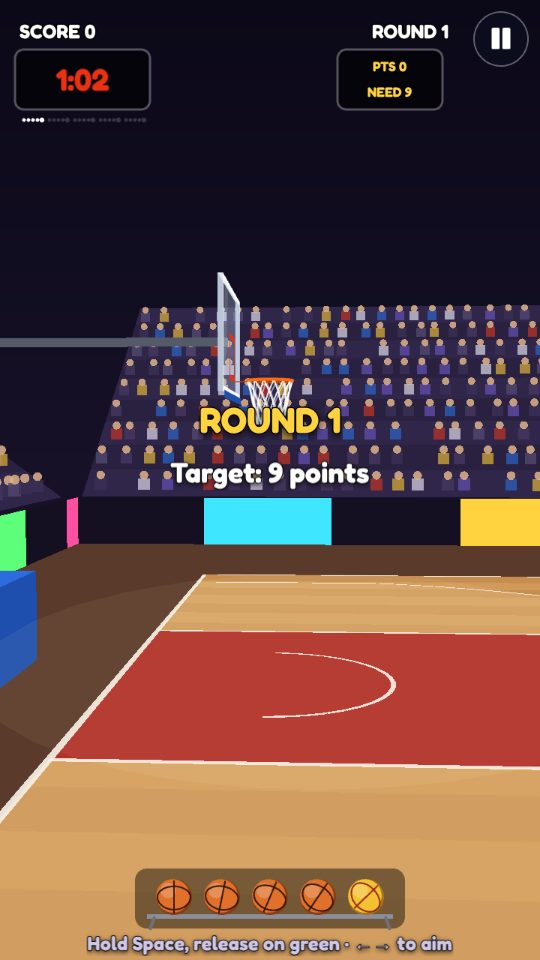
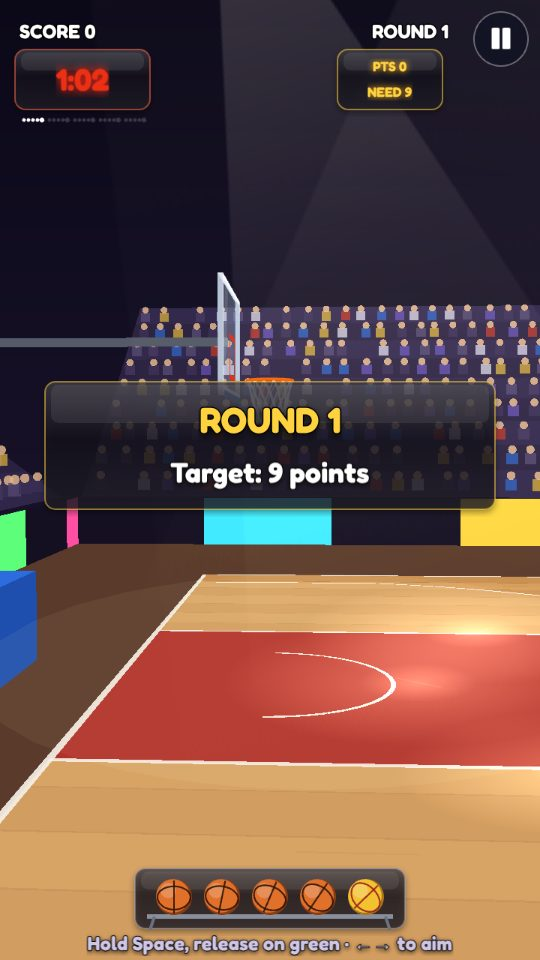
Hoop Shot: arena lights, glossy ball, hot streak fire, glass scoreboard
- light beams from the roof with their lamps, and pools of light on the
  varnished floor, lined up with the camera whenever it moves
- plank seams and grain in the court
- camera flashes popping in the stands, a burst of them on every make
  (more on a swish, most on a money ball)
- a shaded ball (highlight and dark rim) with a fading trail in the air
- three makes in a row: ON FIRE!, a flaming ring on the ball in hand
  and flames trailing the shot
- a glow over the rim on a make
- glass panels with glowing LED digits for the clock and the points,
  a glass rack panel, and a glass card behind round banners
- version 1.2.0

Claude-Session: https://claude.ai/code/session_0175vXZr811A8hQZq6oHnsLr

diff --git a/games/hoop-shot/PlayScene.ts b/games/hoop-shot/PlayScene.ts
@@ -4,6 +4,13 @@ import {
   type V3, type Ball, v3, add, mul, norm, len, dot, launch, stepBall, preview, SPOTS, BALL_R, RIM_Y, RIM_R,
 } from './sim';
 import { Cam, Arena, camFor, camBetween, drawHoop, drawBall, drawShadow, type NetState, type BallLook } from './view';
+import { makeHoopTextures, glass } from './fx';
+
+/** Arena lights hanging over the court (world), and where each one points. */
+const LIGHTS: [V3, V3][] = [
+  [v3(-7, 12, -1), v3(-2.5, 0, 2.5)], [v3(7, 12, -1), v3(2.5, 0, 2.5)],
+  [v3(-7, 12, 9), v3(-3, 0, 6.5)], [v3(7, 12, 9), v3(3, 0, 6.5)], [v3(0, 12.5, 4), v3(0, 0, 1.5)],
+];
 
 const RACK = 5;
 const IDEAL = 0.7;             // the meter value of a perfect shot
@@ -18,6 +25,9 @@ type Phase = 'intro' | 'shoot' | 'move' | 'wait' | 'between';
 interface Flying {
   b: Ball;
   g: Phaser.GameObjects.Graphics;
+  shade: Phaser.GameObjects.Image;
+  trail: { x: number; y: number; r: number }[];
+  fire: boolean;
   look: BallLook;
   spot: number;
   idx: number;
@@ -58,6 +68,7 @@ export class PlayScene extends ArcadeScene {
   private spotText!: Phaser.GameObjects.Text;
   private banner!: Phaser.GameObjects.Text;
   private sub!: Phaser.GameObjects.Text;
+  private bannerBg!: Phaser.GameObjects.Image;
   private hintText!: Phaser.GameObjects.Text;
   private flying: Flying[] = [];
   private pool: Phaser.GameObjects.Graphics[] = [];
@@ -91,6 +102,13 @@ export class PlayScene extends ArcadeScene {
   private keys!: Record<string, Phaser.Input.Keyboard.Key>;
   private touchUi = false;
   private shotsTaken = 0;
+  private beams: Phaser.GameObjects.Image[] = [];
+  private lamps: Phaser.GameObjects.Image[] = [];
+  private sheens: Phaser.GameObjects.Image[] = [];
+  private heldShade!: Phaser.GameObjects.Image;
+  private fire!: Phaser.GameObjects.Particles.ParticleEmitter;
+  private flashT = 0;
+  private shadePool: Phaser.GameObjects.Image[] = [];
 
   createGame(): void {
     this.flying = []; this.pool = [];
@@ -102,6 +120,8 @@ export class PlayScene extends ArcadeScene {
     this.aim = 0; this.aimStart = 0; this.downX = 0; this.driftPhase = 0; this.driftW = 2.6; this.wasGreen = false; this.shotsTaken = 0;
     this.touchUi = this.sys.game.device.input.touch;
 
+    makeHoopTextures(this);
+    this.beams = []; this.lamps = []; this.sheens = []; this.shadePool = []; this.flashT = 0;
     this.arena = new Arena();
     // the arena is baked into a texture and only redrawn when the camera moves
     this.bg = this.make.graphics({}, false);
@@ -111,16 +131,33 @@ export class PlayScene extends ArcadeScene {
     this.gBoard = this.add.graphics();
     this.gBack = this.add.graphics();
     this.gFront = this.add.graphics();
+    // arena lights: beams from the roof, the lamps themselves and their reflections in the varnish
+    for (let i = 0; i < LIGHTS.length; i++) {
+      this.beams.push(this.add.image(0, 0, 'hs-beam').setOrigin(0.5, 0).setBlendMode(Phaser.BlendModes.ADD).setAlpha(0.2).setDepth(2));
+      this.lamps.push(this.add.image(0, 0, 'hs-glow').setBlendMode(Phaser.BlendModes.ADD).setTint(0xfff2cc).setDepth(2));
+      this.sheens.push(this.add.image(0, 0, 'hs-glow').setBlendMode(Phaser.BlendModes.ADD).setTint(0xfff2cc).setAlpha(0.38).setDepth(1.5));
+    }
+    this.fire = this.add.particles(0, 0, 'hs-glow', {
+      speed: { min: 10, max: 60 }, angle: { min: 240, max: 300 }, lifespan: 380, scale: { start: 0.42, end: 0 }, alpha: { start: 0.8, end: 0 },
+      tint: [0xffe27a, 0xff9a2a, 0xff4a1a], blendMode: Phaser.BlendModes.ADD, frequency: 14, emitting: false,
+    }).setDepth(79);
     this.gHeld = this.add.graphics().setDepth(80);
+    this.heldShade = this.add.image(0, 0, 'hs-shade').setDepth(80.5).setVisible(false);
     this.gHint = this.add.graphics().setDepth(78);
     this.gMeter = this.add.graphics().setDepth(90);
     this.gRack = this.add.graphics().setDepth(90);
     this.gBoardHud = this.add.graphics().setDepth(90);
 
-    // scoreboard: shot clock, points against the target
+    // scoreboard: shot clock, points against the target, on glass with LED-style glowing digits
+    this.add.image(110, 106, glass(this, 180, 80, '#ff6a4a')).setDepth(89);
+    this.add.image(520, 106, glass(this, 140, 80, '#ffd23f')).setDepth(89);
+    this.add.image(360, 1198, glass(this, 360, 80, '#9aa3b4')).setDepth(89);
     this.clockText = txt(this, 110, 106, '', { title: true, size: 34, color: '#ec3013', strokeThickness: 0 }).setDepth(92);
+    this.clockText.setShadow(0, 0, '#ff2a1a', 14, false, true);
     this.ptsText = txt(this, 520, 106, '', { title: true, size: 15, color: '#ffd23f', strokeThickness: 0 }).setDepth(92);
+    this.ptsText.setShadow(0, 0, '#ffb020', 10, false, true);
     this.spotText = txt(this, 360, 760, '', { title: true, size: 28, color: '#f3f2f2' }).setDepth(92);
+    this.bannerBg = this.add.image(360, 594, glass(this, 600, 170, '#ffd23f')).setDepth(94).setVisible(false);
     this.banner = txt(this, 360, 560, '', { title: true, size: 40, color: '#ffd23f', wrap: 660 }).setDepth(95).setVisible(false);
     this.sub = txt(this, 360, 630, '', { size: 32, color: '#ffffff', wrap: 660 }).setDepth(95).setVisible(false);
     this.hintText = txt(this, 360, 1258, '', { size: 22, color: '#cfc6e6' }).setDepth(92);
@@ -234,10 +271,13 @@ export class PlayScene extends ArcadeScene {
     const b = launch(from, { power: this.power, ideal: IDEAL, spread: this.rules.spread, aimDeg: this.aim + this.drift(), angleDeg: ANGLE, spin: SPIN }, money);
     const g = this.pool.pop() ?? this.add.graphics();
     g.setVisible(true).setAlpha(1);
-    this.flying.push({ b, g, look: { phase: 0, roll: 0, money }, spot: this.spot, idx: this.ball, resolved: false, fade: 1, label: false });
+    const shade = this.shadePool.pop() ?? this.add.image(0, 0, 'hs-shade');
+    shade.setVisible(true).setAlpha(1);
+    this.flying.push({ b, g, shade, trail: [], fire: this.streak >= 3, look: { phase: 0, roll: 0, money }, spot: this.spot, idx: this.ball, resolved: false, fade: 1, label: false });
     this.shotsTaken++;
     this.holding = false;
     this.gHeld.clear();
+    this.heldShade.setVisible(false);
     this.sfx('throw', { volume: 0.5, rate: 1.05 });
     const s = this.cam.project(from);
     if (s) burst(this, s.x, s.y, [0xffffff, 0xffd23f], 6, 120);
@@ -332,7 +372,11 @@ export class PlayScene extends ArcadeScene {
       this.arena.draw(this.bg, this.cam);
       this.bgRT.clear().draw(this.bg);
       this.camDirty = false;
+      this.placeLights();
     }
+    // camera flashes in the crowd now and then
+    this.flashT -= dt;
+    if (this.flashT <= 0) { this.flashT = 0.25 + Math.random() * 0.5; this.flashes(1); }
 
     // the ball in hand
     if (this.holding) {
@@ -372,7 +416,7 @@ export class PlayScene extends ArcadeScene {
     }
     this.net.bulge = bulge ? { p: bulge } : null;
     for (const f of this.flying) {
-      if (f.fade <= 0) { f.g.clear().setVisible(false); this.pool.push(f.g); }
+      if (f.fade <= 0) { f.g.clear().setVisible(false); this.pool.push(f.g); f.shade.setVisible(false); this.shadePool.push(f.shade); }
     }
     this.flying = this.flying.filter((f) => f.fade > 0);
     for (const f of this.flying) {
@@ -381,9 +425,19 @@ export class PlayScene extends ArcadeScene {
       if (!pr) continue;
       drawShadow(this.shadows, this.cam, f.b.p, BALL_R);
       f.g.setDepth(this.depthOf(pr.z));
-      drawBall(f.g, pr.x, pr.y, BALL_R * pr.s, f.look, Math.max(0, Math.min(1, f.fade)));
+      const r = BALL_R * pr.s, a = Math.max(0, Math.min(1, f.fade));
+      // a fading trail behind a ball in the air
+      if (!f.b.made && f.b.floor === 0) { f.trail.push({ x: pr.x, y: pr.y, r }); if (f.trail.length > 7) f.trail.shift(); } else if (f.trail.length) f.trail.shift();
+      f.trail.forEach((p, i) => f.g.fillStyle(f.fire ? 0xff8a2a : 0xffe2c0, (0.22 * (i + 1)) / f.trail.length * a).fillCircle(p.x, p.y, p.r * (0.45 + 0.5 * (i / f.trail.length))));
+      drawBall(f.g, pr.x, pr.y, r, f.look, a);
+      f.shade.setPosition(pr.x, pr.y).setDisplaySize(r * 2.02, r * 2.02).setDepth(f.g.depth + 0.01).setAlpha(a);
       if (f.look.money && !f.b.made && f.b.t < 2 && rng.chance(0.4)) burst(this, pr.x, pr.y, [0xffd23f, 0xffffff], 1, 40);
     }
+    // a ball shot on a hot streak burns
+    const hot = this.flying.find((f) => f.fire && !f.b.made && f.b.floor === 0 && f.fade > 0.5);
+    const hp = hot ? this.cam.project(hot.b.p) : null;
+    if (hp) { this.fire.setPosition(hp.x, hp.y); this.fire.setDepth(this.depthOf(hp.z) - 0.1); if (!this.fire.emitting) this.fire.start(); }
+    else if (this.fire.emitting) this.fire.stop();
     if (this.holding) {
       const hp = this.holdPos();
       if (this.pickT >= 1) drawShadow(this.shadows, this.cam, hp, BALL_R);
@@ -460,6 +514,10 @@ export class PlayScene extends ArcadeScene {
     this.sfxAt(swish ? 'swish' : 'score', ax, { volume: 0.55, rate: 1 + Math.min(6, this.streak - 1) * 0.04 });
     burst(this, ax, ay + 30, swish ? [0xffffff, 0x5dff7a, 0x3ee6ff] : [0xffd23f, 0xff7a1a, 0xffffff], swish ? 26 : 16, swish ? 320 : 240);
     if (swish) this.swishRing(ax, ay);
+    const glow = this.add.image(ax, ay + 20, 'hs-glow').setDepth(86).setBlendMode(Phaser.BlendModes.ADD).setTint(swish ? 0xbfffd8 : 0xffd27a).setScale(0.8);
+    this.tweens.add({ targets: glow, scale: 3.2, alpha: 0, duration: 450, ease: 'Quad.easeOut', onComplete: () => glow.destroy() });
+    this.flashes(f.b.money ? 26 : swish ? 14 : 8);
+    if (this.streak === 3) { popup(this, ax, ay + 250, t('onFire'), '#ff8a2a', 30); this.sfx('swish', { volume: 0.4, rate: 0.8 }); }
     // the big call goes under the hoop
     let msg = '', color = '#ffffff';
     if (f.b.money) { msg = t('moneyBall'); color = '#ffd23f'; }
@@ -507,11 +565,40 @@ export class PlayScene extends ArcadeScene {
     this.updateBoard();
   }
 
+  // ---------------------------------------------------------------- lights and crowd
+  /** Lines the beams, lamps and floor reflections up with the camera (called when it moves). */
+  private placeLights(): void {
+    LIGHTS.forEach(([L, T], i) => {
+      const top = this.cam.project(L), bot = this.cam.project(T);
+      const beam = this.beams[i], lamp = this.lamps[i], sheen = this.sheens[i];
+      if (top && bot) {
+        const dx = bot.x - top.x, dy = bot.y - top.y;
+        beam.setVisible(true).setPosition(top.x, top.y).setRotation(Math.atan2(dy, dx) - Math.PI / 2).setDisplaySize(Math.max(80, 6 * bot.s), Math.hypot(dx, dy));
+      } else beam.setVisible(false);
+      if (top) lamp.setVisible(true).setPosition(top.x, top.y).setScale(Math.max(0.25, Math.min(1.2, top.s / 120)));
+      else lamp.setVisible(false);
+      // the pool of light where the beam meets the varnished floor
+      if (bot && bot.y > 0 && bot.y < 1280) sheen.setVisible(true).setPosition(bot.x, bot.y).setDisplaySize(Math.min(520, 4.5 * bot.s), Math.min(170, 1.3 * bot.s));
+      else sheen.setVisible(false);
+    });
+  }
+
+  /** Camera flashes popping in the stands. */
+  private flashes(n: number): void {
+    const seen = this.arena.seen;
+    if (!seen.length) return;
+    for (let i = 0; i < n; i++) {
+      const p = seen[Math.floor(Math.random() * seen.length)];
+      const st = this.add.image(p.x, p.y, 'hs-star').setBlendMode(Phaser.BlendModes.ADD).setDepth(3).setScale(0).setAngle(Math.random() * 45);
+      this.tweens.add({ targets: st, scale: Math.min(0.7, 0.2 + p.s * 0.08), duration: 70, delay: i * 25, yoyo: true, hold: 40, onComplete: () => st.destroy() });
+    }
+  }
+
   // ---------------------------------------------------------------- drawing
   private drawHeld(): void {
     const g = this.gHeld;
     g.clear();
-    if (!this.holding) return;
+    if (!this.holding) { this.heldShade.setVisible(false); return; }
     const hp = this.holdPos();
     const pr = this.cam.project(hp);
     if (!pr) return;
@@ -524,6 +611,12 @@ export class PlayScene extends ArcadeScene {
     }
     const money = this.ball === RACK - 1;
     drawBall(g, x, y, r, { phase: 0.7, roll: -0.25, money });
+    this.heldShade.setVisible(true).setPosition(x, y).setDisplaySize(r * 2.02, r * 2.02);
+    if (this.streak >= 3 && this.pickT >= 1) {
+      const a = 0.35 + Math.sin(this.elapsed * 10) * 0.2;
+      g.lineStyle(6, 0xff8a2a, a).strokeCircle(x, y, r + 6);
+      g.lineStyle(3, 0xffe27a, a).strokeCircle(x, y, r + 12);
+    }
     if (money && this.pickT >= 1) {
       const a = 0.35 + Math.sin(this.elapsed * 8) * 0.2;
       g.lineStyle(4, 0xffd23f, a).strokeCircle(x, y, r + 8);
@@ -598,10 +691,6 @@ export class PlayScene extends ArcadeScene {
     const g = this.gBoardHud;
     g.clear();
     // clock on the left, points against the target on the right: the middle stays free for the arc
-    g.fillStyle(0x000000, 0.6).fillRoundedRect(20, 66, 180, 80, 12);
-    g.lineStyle(3, 0x55525e, 1).strokeRoundedRect(20, 66, 180, 80, 12);
-    g.fillStyle(0x000000, 0.6).fillRoundedRect(450, 66, 140, 80, 12);
-    g.lineStyle(3, 0x55525e, 1).strokeRoundedRect(450, 66, 140, 80, 12);
     this.ptsText.setText(`${t('ptsLabel')} ${this.pts}\n${t('needLabel')} ${this.rules.need}`).setColor(this.pts >= this.rules.need ? '#5dff7a' : '#ffd23f');
     // rack grid (one column per spot)
     for (let s = 0; s < SPOTS.length; s++) {
@@ -615,7 +704,6 @@ export class PlayScene extends ArcadeScene {
     // the rack at the bottom: balls still to shoot
     const r = this.gRack;
     r.clear();
-    r.fillStyle(0x000000, 0.45).fillRoundedRect(180, 1158, 360, 80, 16);
     r.lineStyle(6, 0x8a8f9e, 1).lineBetween(196, 1222, 524, 1222);
     r.lineStyle(4, 0x6c7180, 1).lineBetween(206, 1222, 200, 1240).lineBetween(514, 1222, 520, 1240);
     for (let i = 0; i < RACK; i++) {
@@ -630,13 +718,14 @@ export class PlayScene extends ArcadeScene {
   private showBanner(title: string, color: string, sub: string): void {
     this.banner.setText(title).setColor(color).setVisible(true).setScale(0.3).setAlpha(1);
     this.sub.setText(sub).setVisible(!!sub).setAlpha(0);
-    this.tweens.killTweensOf([this.banner, this.sub]);
-    this.tweens.add({ targets: this.banner, scale: 1, duration: 280, ease: 'Back.easeOut' });
+    this.tweens.killTweensOf([this.banner, this.sub, this.bannerBg]);
+    this.bannerBg.setVisible(true).setAlpha(1).setScale(0.4, 0.4);
+    this.tweens.add({ targets: [this.banner, this.bannerBg], scale: 1, duration: 280, ease: 'Back.easeOut' });
     this.tweens.add({ targets: this.sub, alpha: 1, duration: 300, delay: 150 });
   }
 
   private hideBanner(): void {
-    this.tweens.add({ targets: [this.banner, this.sub], alpha: 0, duration: 250 });
+    this.tweens.add({ targets: [this.banner, this.sub, this.bannerBg], alpha: 0, duration: 250 });
   }
 }
 

diff --git a/games/hoop-shot/fx.ts b/games/hoop-shot/fx.ts
@@ -1,0 +1,68 @@
+import Phaser from 'phaser';
+
+/** Painted textures for the arena's light and the HUD glass (drawn once, on canvases). */
+
+type Ctx = CanvasRenderingContext2D;
+
+function make(scene: Phaser.Scene, key: string, w: number, h: number, draw: (c: Ctx) => void): void {
+  if (scene.textures.exists(key)) return;
+  const tex = scene.textures.createCanvas(key, w, h);
+  if (!tex) return;
+  draw(tex.getContext());
+  tex.refresh();
+}
+
+function roundRect(c: Ctx, x: number, y: number, w: number, h: number, r: number): void {
+  c.beginPath();
+  c.moveTo(x + r, y);
+  c.arcTo(x + w, y, x + w, y + h, r);
+  c.arcTo(x + w, y + h, x, y + h, r);
+  c.arcTo(x, y + h, x, y, r);
+  c.arcTo(x, y, x + w, y, r);
+  c.closePath();
+}
+
+export function makeHoopTextures(scene: Phaser.Scene): void {
+  make(scene, 'hs-glow', 128, 128, (c) => {
+    const g = c.createRadialGradient(64, 64, 0, 64, 64, 64);
+    g.addColorStop(0, 'rgba(255,255,255,1)'); g.addColorStop(0.3, 'rgba(255,255,255,0.4)'); g.addColorStop(1, 'rgba(255,255,255,0)');
+    c.fillStyle = g; c.fillRect(0, 0, 128, 128);
+  });
+  // shading laid over a drawn ball: a highlight up and left, a darker rim
+  make(scene, 'hs-shade', 128, 128, (c) => {
+    c.beginPath(); c.arc(64, 64, 63, 0, Math.PI * 2); c.clip();
+    const g = c.createRadialGradient(44, 40, 2, 64, 64, 66);
+    g.addColorStop(0, 'rgba(255,255,255,0.55)'); g.addColorStop(0.28, 'rgba(255,255,255,0.08)');
+    g.addColorStop(0.62, 'rgba(0,0,0,0)'); g.addColorStop(1, 'rgba(20,6,0,0.55)');
+    c.fillStyle = g; c.fillRect(0, 0, 128, 128);
+  });
+  // a light beam: narrow at the top, wide and faint at the bottom (origin at the top centre)
+  make(scene, 'hs-beam', 256, 512, (c) => {
+    const g = c.createLinearGradient(0, 0, 0, 512);
+    g.addColorStop(0, 'rgba(255,245,215,0.9)'); g.addColorStop(0.5, 'rgba(255,245,215,0.25)'); g.addColorStop(1, 'rgba(255,245,215,0)');
+    c.beginPath(); c.moveTo(118, 0); c.lineTo(138, 0); c.lineTo(256, 512); c.lineTo(0, 512); c.closePath();
+    c.fillStyle = g; c.fill();
+  });
+  make(scene, 'hs-star', 64, 64, (c) => {
+    const g = c.createRadialGradient(32, 32, 0, 32, 32, 32);
+    g.addColorStop(0, 'rgba(255,255,255,1)'); g.addColorStop(0.2, 'rgba(255,255,255,0.6)'); g.addColorStop(1, 'rgba(255,255,255,0)');
+    c.fillStyle = g; c.fillRect(0, 0, 64, 64);
+    c.fillStyle = 'rgba(255,255,255,0.9)';
+    c.fillRect(30, 2, 4, 60); c.fillRect(2, 30, 60, 4);
+  });
+}
+
+/** A dark glass panel with a light rim and a sheen across the top. */
+export function glass(scene: Phaser.Scene, w: number, h: number, tint = '#ffffff'): string {
+  const key = `hs-glass-${w}x${h}-${tint}`, pad = 10;
+  make(scene, key, w + pad * 2, h + pad * 2, (c) => {
+    c.save(); c.shadowColor = 'rgba(0,0,0,0.6)'; c.shadowBlur = 10; c.shadowOffsetY = 4;
+    roundRect(c, pad, pad, w, h, 14); c.fillStyle = 'rgba(8,6,16,0.72)'; c.fill(); c.restore();
+    const g = c.createLinearGradient(0, pad, 0, pad + h);
+    g.addColorStop(0, 'rgba(255,255,255,0.18)'); g.addColorStop(0.45, 'rgba(255,255,255,0.04)'); g.addColorStop(1, 'rgba(255,255,255,0.08)');
+    roundRect(c, pad, pad, w, h, 14); c.fillStyle = g; c.fill();
+    c.lineWidth = 2; c.strokeStyle = tint; c.globalAlpha = 0.55; c.stroke(); c.globalAlpha = 1;
+    roundRect(c, pad + 8, pad + 4, w - 16, h * 0.3, 10); c.fillStyle = 'rgba(255,255,255,0.08)'; c.fill();
+  });
+  return key;
+}

diff --git a/games/hoop-shot/view.ts b/games/hoop-shot/view.ts
@@ -132,6 +132,8 @@ export class Arena {
   private floor: Prim[] = [];
   private lines: V3[][] = [];
   private props: Prim[] = [];
+  /** Screen positions of the crowd from the last draw (for camera flashes). */
+  seen: { x: number; y: number; s: number }[] = [];
 
   constructor() {
     const rnd = rand(7);
@@ -169,6 +171,11 @@ export class Arena {
     // planks: alternating tone strips running toward half court
     for (let x = -COURT_X, i = 0; x < COURT_X - 0.01; x += 0.75, i++) {
       if (i % 2) this.floor.push({ pts: floorQuad(x, BASELINE_Z, x + 0.75, HALF_Z + 6, 0.001), color: 0xc68d4f, alpha: 1 });
+    }
+    for (let x = -COURT_X + 0.75; x < COURT_X - 0.01; x += 0.75) this.floor.push({ pts: floorQuad(x - 0.012, BASELINE_Z, x + 0.012, HALF_Z + 6, 0.0012), color: 0x8a5a30, alpha: 0.35 });
+    for (let i = 0; i < 70; i++) {
+      const x = -COURT_X + rnd() * COURT_X * 2, z = BASELINE_Z + rnd() * 18, l = 0.6 + rnd() * 1.6;
+      this.floor.push({ pts: floorQuad(x, z, x + 0.02, z + l, 0.0013), color: 0x9a6634, alpha: 0.25 });
     }
     this.floor.push({ pts: floorQuad(-2.45, BASELINE_Z, 2.45, BASELINE_Z + 5.8, 0.002), color: 0xb0322a, alpha: 1 });
     // three-point zone tint: the arc area is a slightly lighter wood
@@ -214,11 +221,13 @@ export class Arena {
     g.fillGradientStyle(0x0b0818, 0x0b0818, 0x221a36, 0x221a36).fillRect(0, 0, SCREEN_W, SCREEN_H);
     const sorted = this.stands.map((p) => ({ p, d: cam.depth(centroid(p.pts)) })).sort((a, b) => b.d - a.d);
     for (const { p } of sorted) fillPoly(g, cam.poly(p.pts), p.color, p.alpha);
+    this.seen = [];
     for (const c of this.crowd) {
       const pr = cam.project(c.p);
       if (!pr || pr.y < -20 || pr.y > SCREEN_H + 20 || pr.x < -20 || pr.x > SCREEN_W + 20) continue;
       const r = c.r * pr.s;
       if (r < 0.6) continue;
+      this.seen.push({ x: pr.x, y: pr.y, s: r });
       g.fillStyle(c.color, 0.8).fillRect(pr.x - r * 1.1, pr.y + r * 0.6, r * 2.2, r * 2.2);
       g.fillStyle(0xe0b48a, 0.85).fillCircle(pr.x, pr.y, r * 0.8);
     }

diff --git a/games/hoop-shot/main.ts b/games/hoop-shot/main.ts
@@ -61,7 +61,7 @@ launch({
       spotLC: 'SOL KÖŞE', spotLW: 'SOL KANAT', spotTop: 'TEPE', spotRW: 'SAĞ KANAT', spotRC: 'SAĞ KÖŞE',
       round: 'TUR {n}', target: 'Hedef: {n} sayı', ptsLabel: 'SAYI', needLabel: 'HEDEF',
       moneyBall: 'PARA TOPU!', swish: 'TEMİZ!', bank: 'TAHTADAN!', streak: 'SERİ x{n}', airball: 'HAVA TOPU!',
-      short: 'KISA!', long: 'UZUN!', rimOut: 'ÇEMBERDEN DÖNDÜ!', perfectRack: 'KUSURSUZ RAF!',
+      short: 'KISA!', long: 'UZUN!', rimOut: 'ÇEMBERDEN DÖNDÜ!', perfectRack: 'KUSURSUZ RAF!', onFire: 'ALEV ALDI!',
       qualified: 'TUR ATLADIN!', out: 'ELENDİN!', timeUp: 'SÜRE BİTTİ!', timeBonus: 'Süre bonusu +{n}',
       hintTouch: 'Basılı tut, yeşilde bırak · nişan için kaydır', hintKeys: 'Boşluk basılı tut, yeşilde bırak · ←→ nişan',
     },
@@ -69,7 +69,7 @@ launch({
       spotLC: 'LEFT CORNER', spotLW: 'LEFT WING', spotTop: 'TOP OF THE KEY', spotRW: 'RIGHT WING', spotRC: 'RIGHT CORNER',
       round: 'ROUND {n}', target: 'Target: {n} points', ptsLabel: 'PTS', needLabel: 'NEED',
       moneyBall: 'MONEY BALL!', swish: 'SWISH!', bank: 'BANK SHOT!', streak: 'STREAK x{n}', airball: 'AIR BALL!',
-      short: 'SHORT!', long: 'LONG!', rimOut: 'RIM OUT!', perfectRack: 'PERFECT RACK!',
+      short: 'SHORT!', long: 'LONG!', rimOut: 'RIM OUT!', perfectRack: 'PERFECT RACK!', onFire: 'ON FIRE!',
       qualified: 'YOU ADVANCE!', out: 'KNOCKED OUT!', timeUp: "TIME'S UP!", timeBonus: 'Time bonus +{n}',
       hintTouch: 'Hold, release on green · slide to aim', hintKeys: 'Hold Space, release on green · ←→ to aim',
     },

diff --git a/platform/arcade-catalog.ts b/platform/arcade-catalog.ts
@@ -524,7 +524,7 @@ export const ARCADE_GAMES: SeedGame[] = [
     tags: ['hoop', 'shot', 'retro'],
     orientation: 'portrait',
     input: ['touch', 'keyboard', 'mouse'],
-    version: '1.1.0',
+    version: '1.2.0',
   }),
   arcadeGame({
     slug: 'jetpack-rush',
